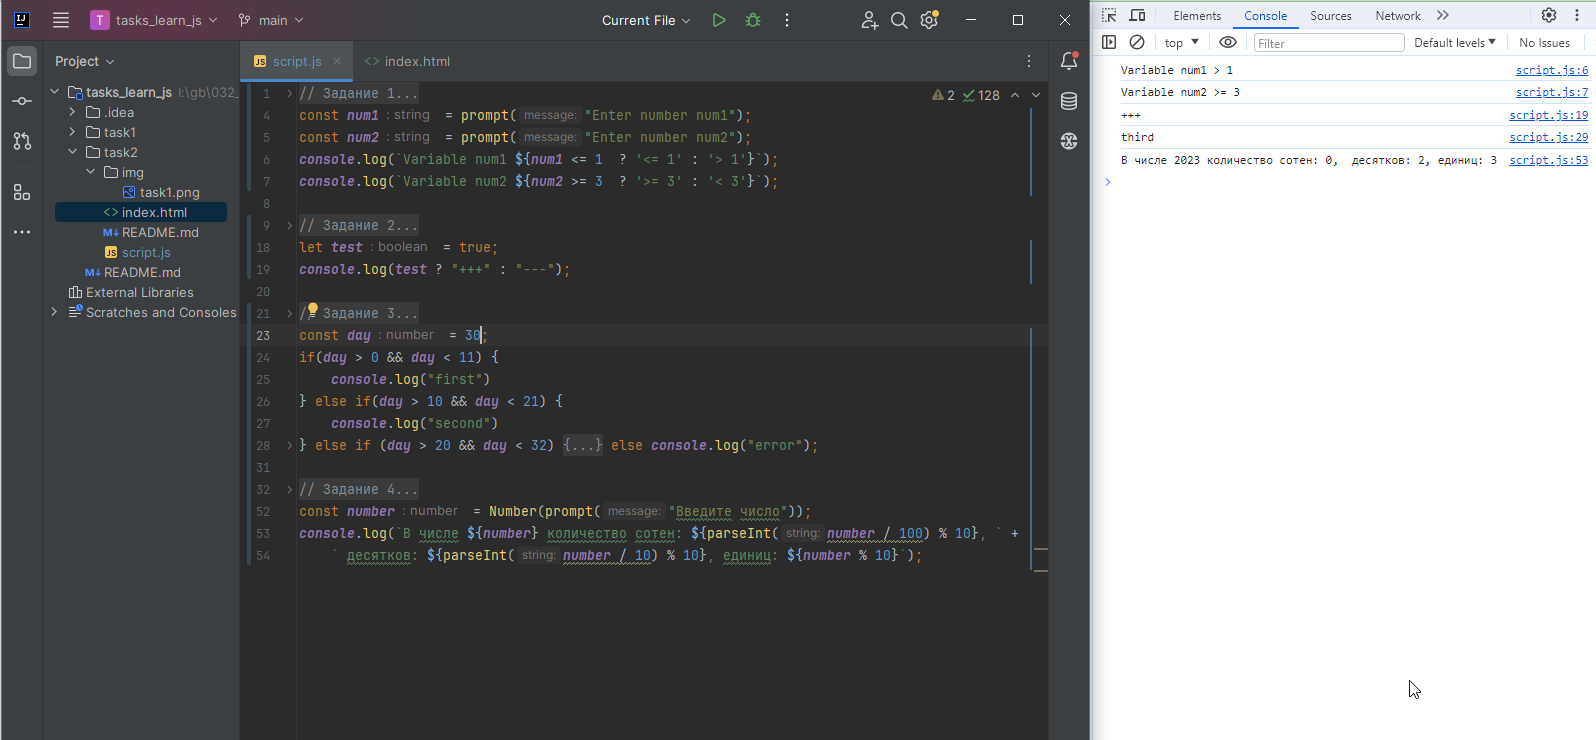
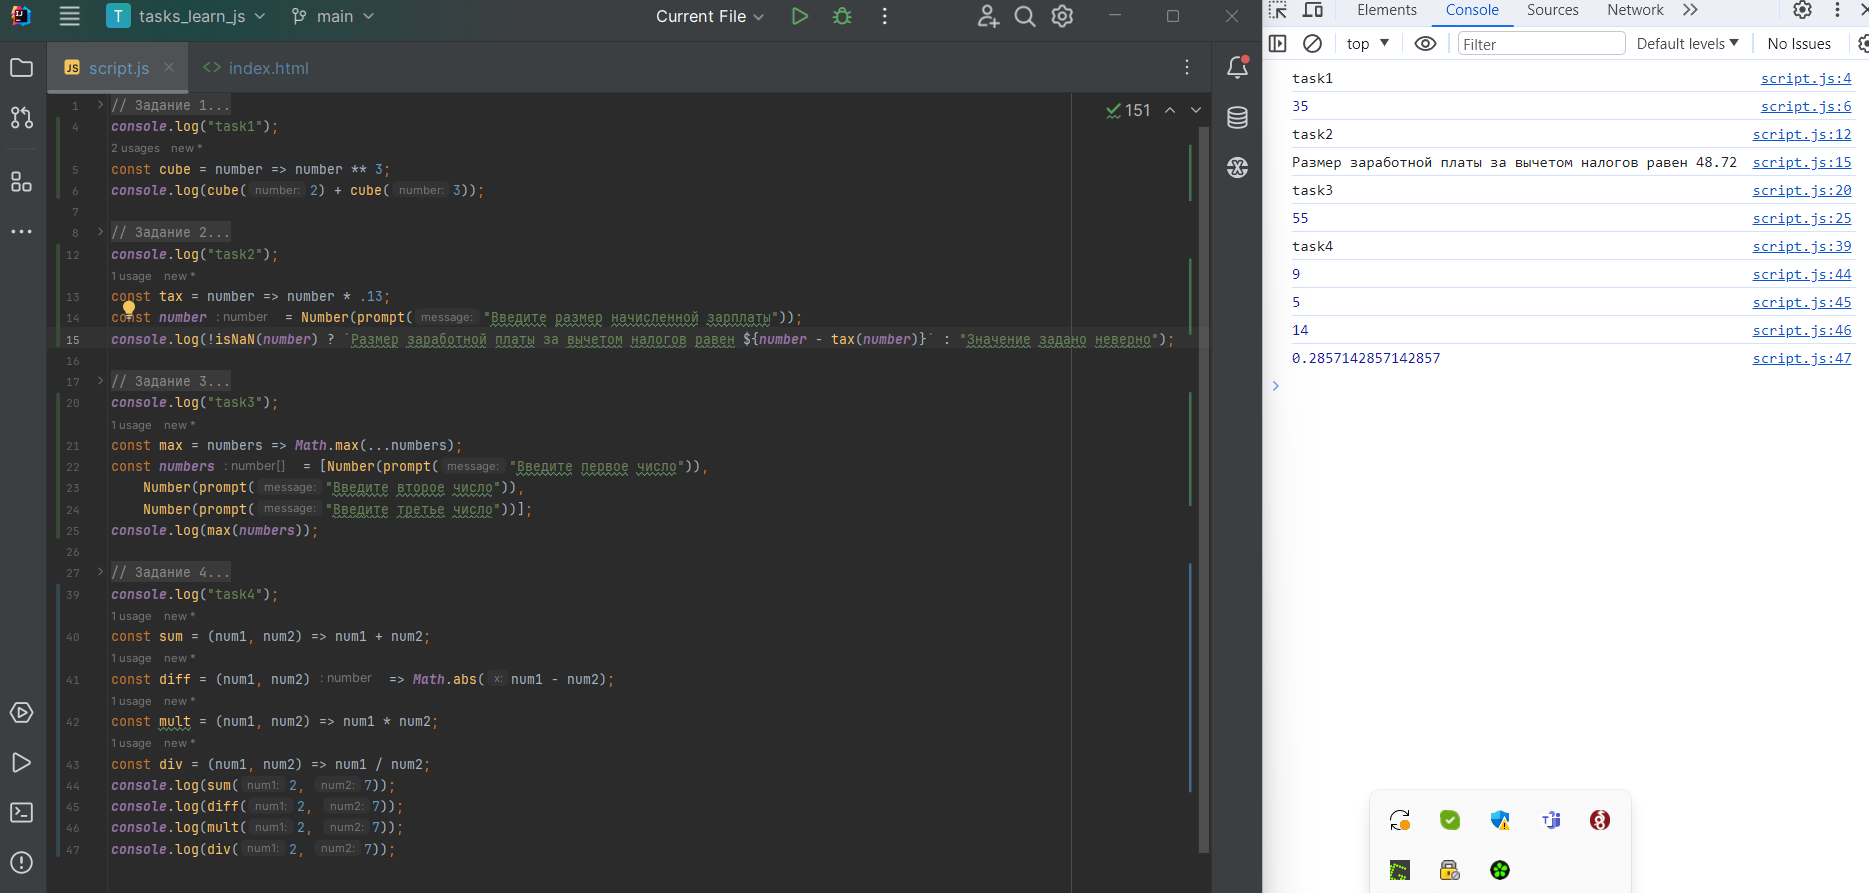
task3 ready

diff --git a/task3/script.js b/task3/script.js
@@ -1,15 +1,28 @@
 // Задание 1
 // Создайте функцию которая возводит переданное число в куб,
 // необходимо вывести в консоль результат 2^3 степени + 3 ^ 3 степени
+console.log("task1");
+const cube = number => number ** 3;
+console.log(cube(2) + cube(3));
 
 // Задание 2
 // Пользователь вводит с клавиатуры число, если ввёл текст, необходимо вывести что значение задано неверно
 // Создать фукнцию, которая высчитывает 13% от данного числа
 // и выводит в консоль текст "Размер заработной платы за вычетом налогов равен значение"
+console.log("task2");
+const tax = number => number * .13;
+const number = Number(prompt("Введите размер начисленной зарплаты"));
+console.log(!isNaN(number) ? `Размер заработной платы за вычетом налогов равен ${number - tax(number)}` : "Значение задано неверно");
 
 // Задание 3
 // Пользователь с клавиатуры вводит 3 числа, необходимо создать функцию,
 // которая определяет максимальное значение среди этих чисел
+console.log("task3");
+const max = numbers => Math.max(...numbers);
+const numbers = [Number(prompt("Введите первое число")),
+    Number(prompt("Введите второе число")),
+    Number(prompt("Введите третье число"))];
+console.log(max(numbers));
 
 // Задание 4
 // Необходимо реализовать четыре функции, каждая функция должна принимать по два числа
@@ -23,3 +36,12 @@
 // Округлять значения, которые возвращают функции не нужно, однако, обратите внимание на разность,
 // функция должна вычесть из большего числа меньшее, либо вернуть 0, если числа равны.
 // Функциям всегда передаются корректные числа, проверки на NaN, Infinity делать не нужно.
+console.log("task4");
+const sum = (num1, num2) => num1 + num2;
+const diff = (num1, num2) => Math.abs(num1 - num2);
+const mult = (num1, num2) => num1 * num2;
+const div = (num1, num2) => num1 / num2;
+console.log(sum(2, 7));
+console.log(diff(2, 7));
+console.log(mult(2, 7));
+console.log(div(2, 7));

diff --git a/task3/index.html b/task3/index.html
@@ -2,7 +2,7 @@
 <html lang="en">
 <head>
     <meta charset="UTF-8">
-    <title>task2</title>
+    <title>task3</title>
 </head>
 <body>
     <script src="script.js"></script>
